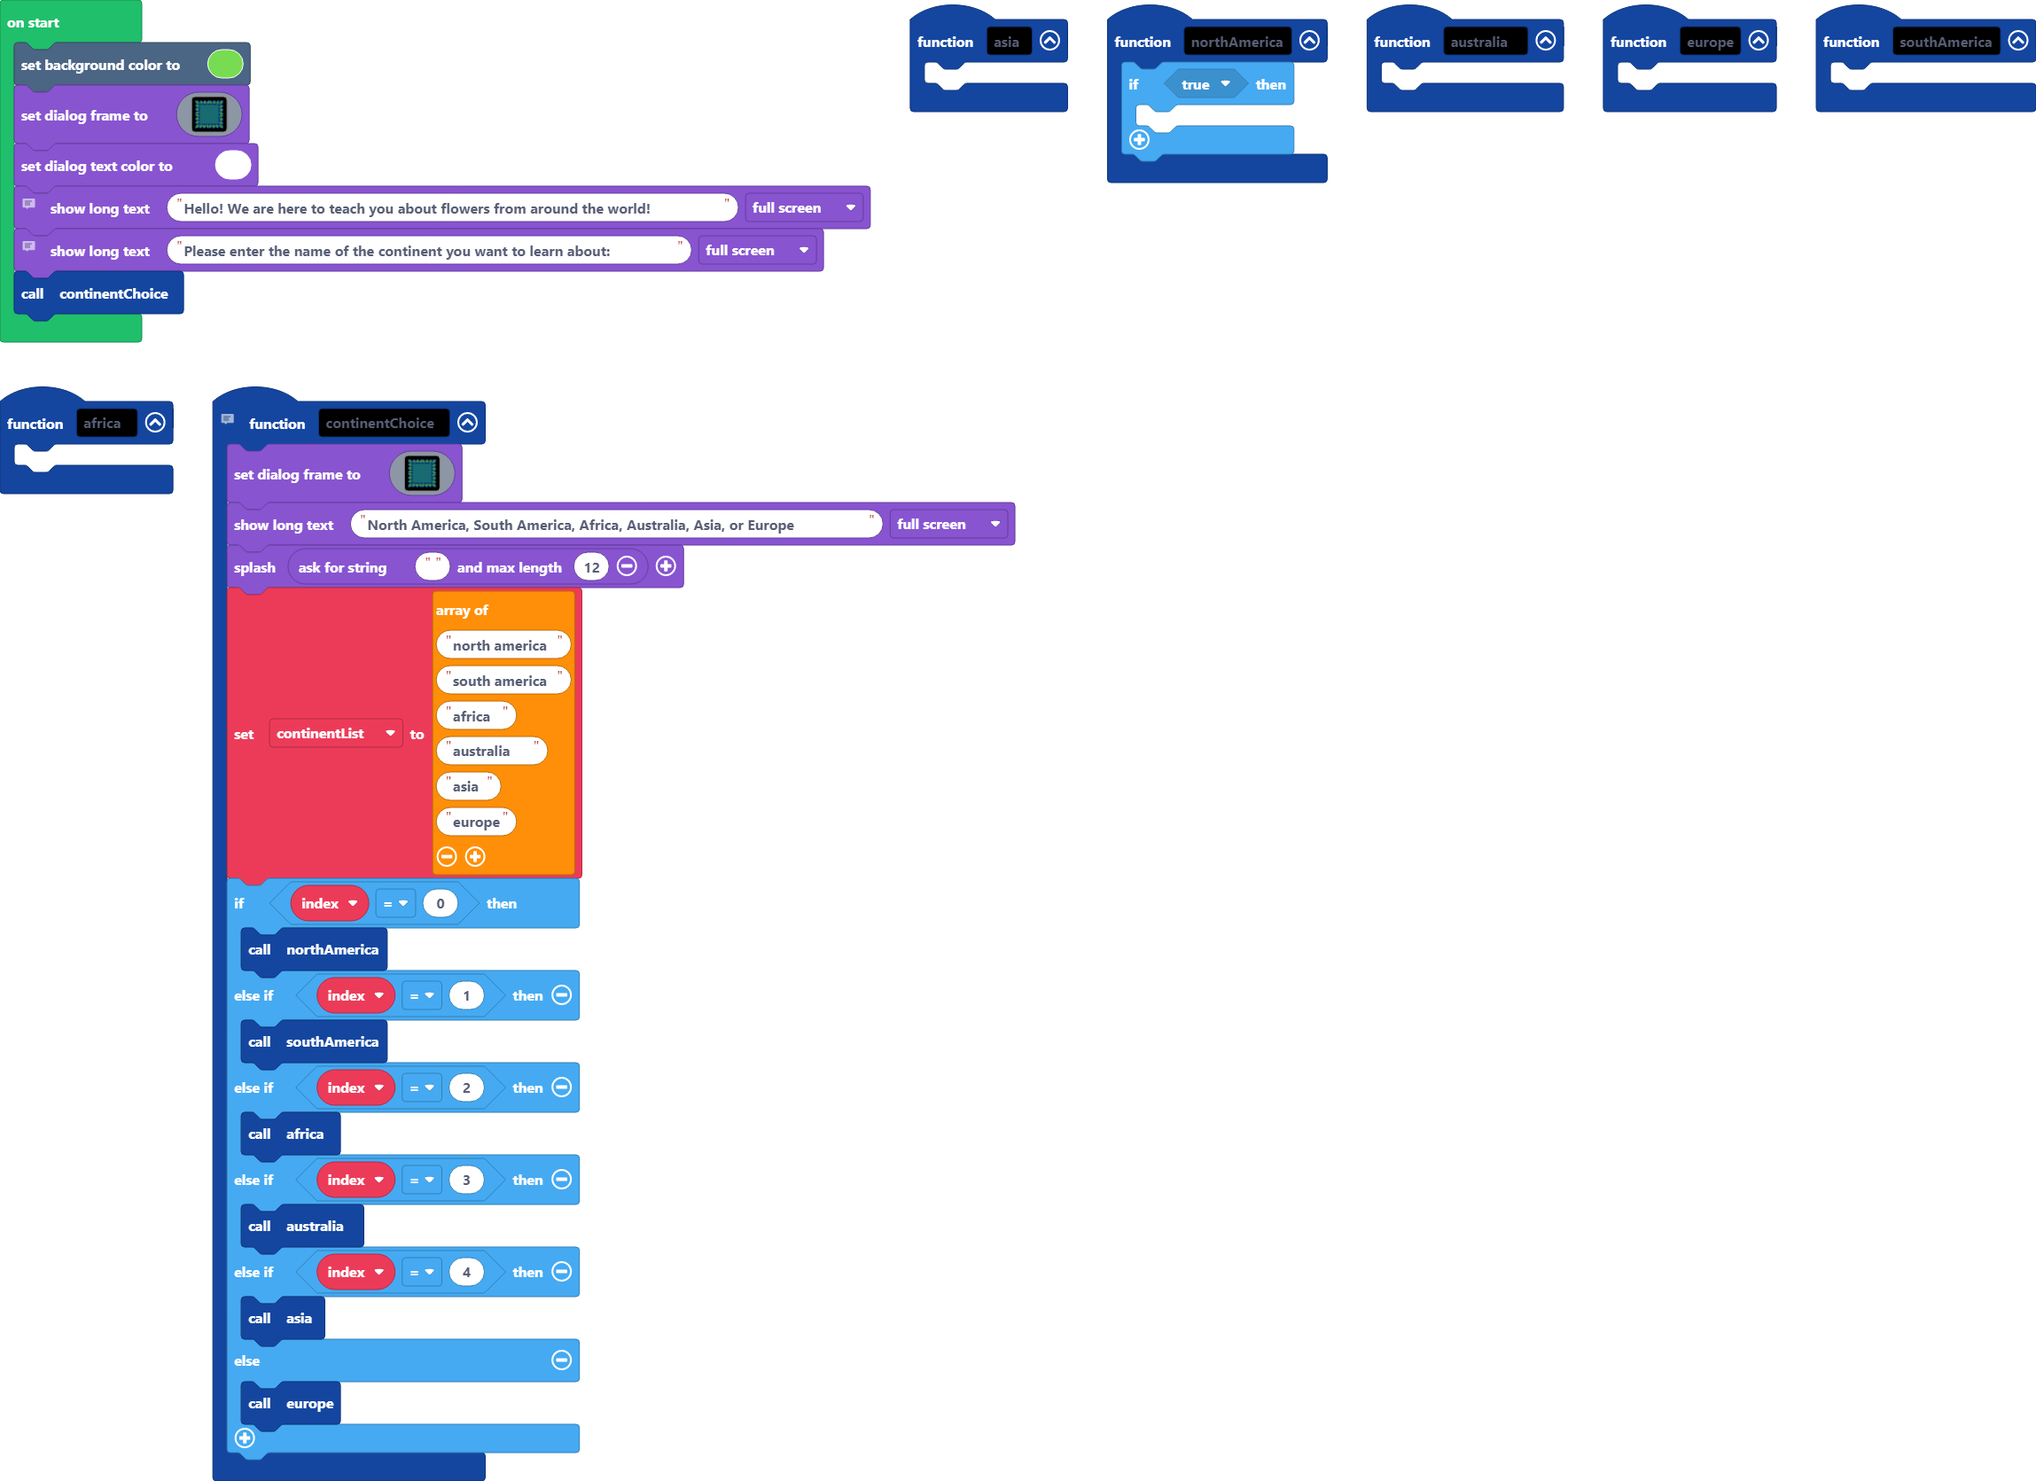
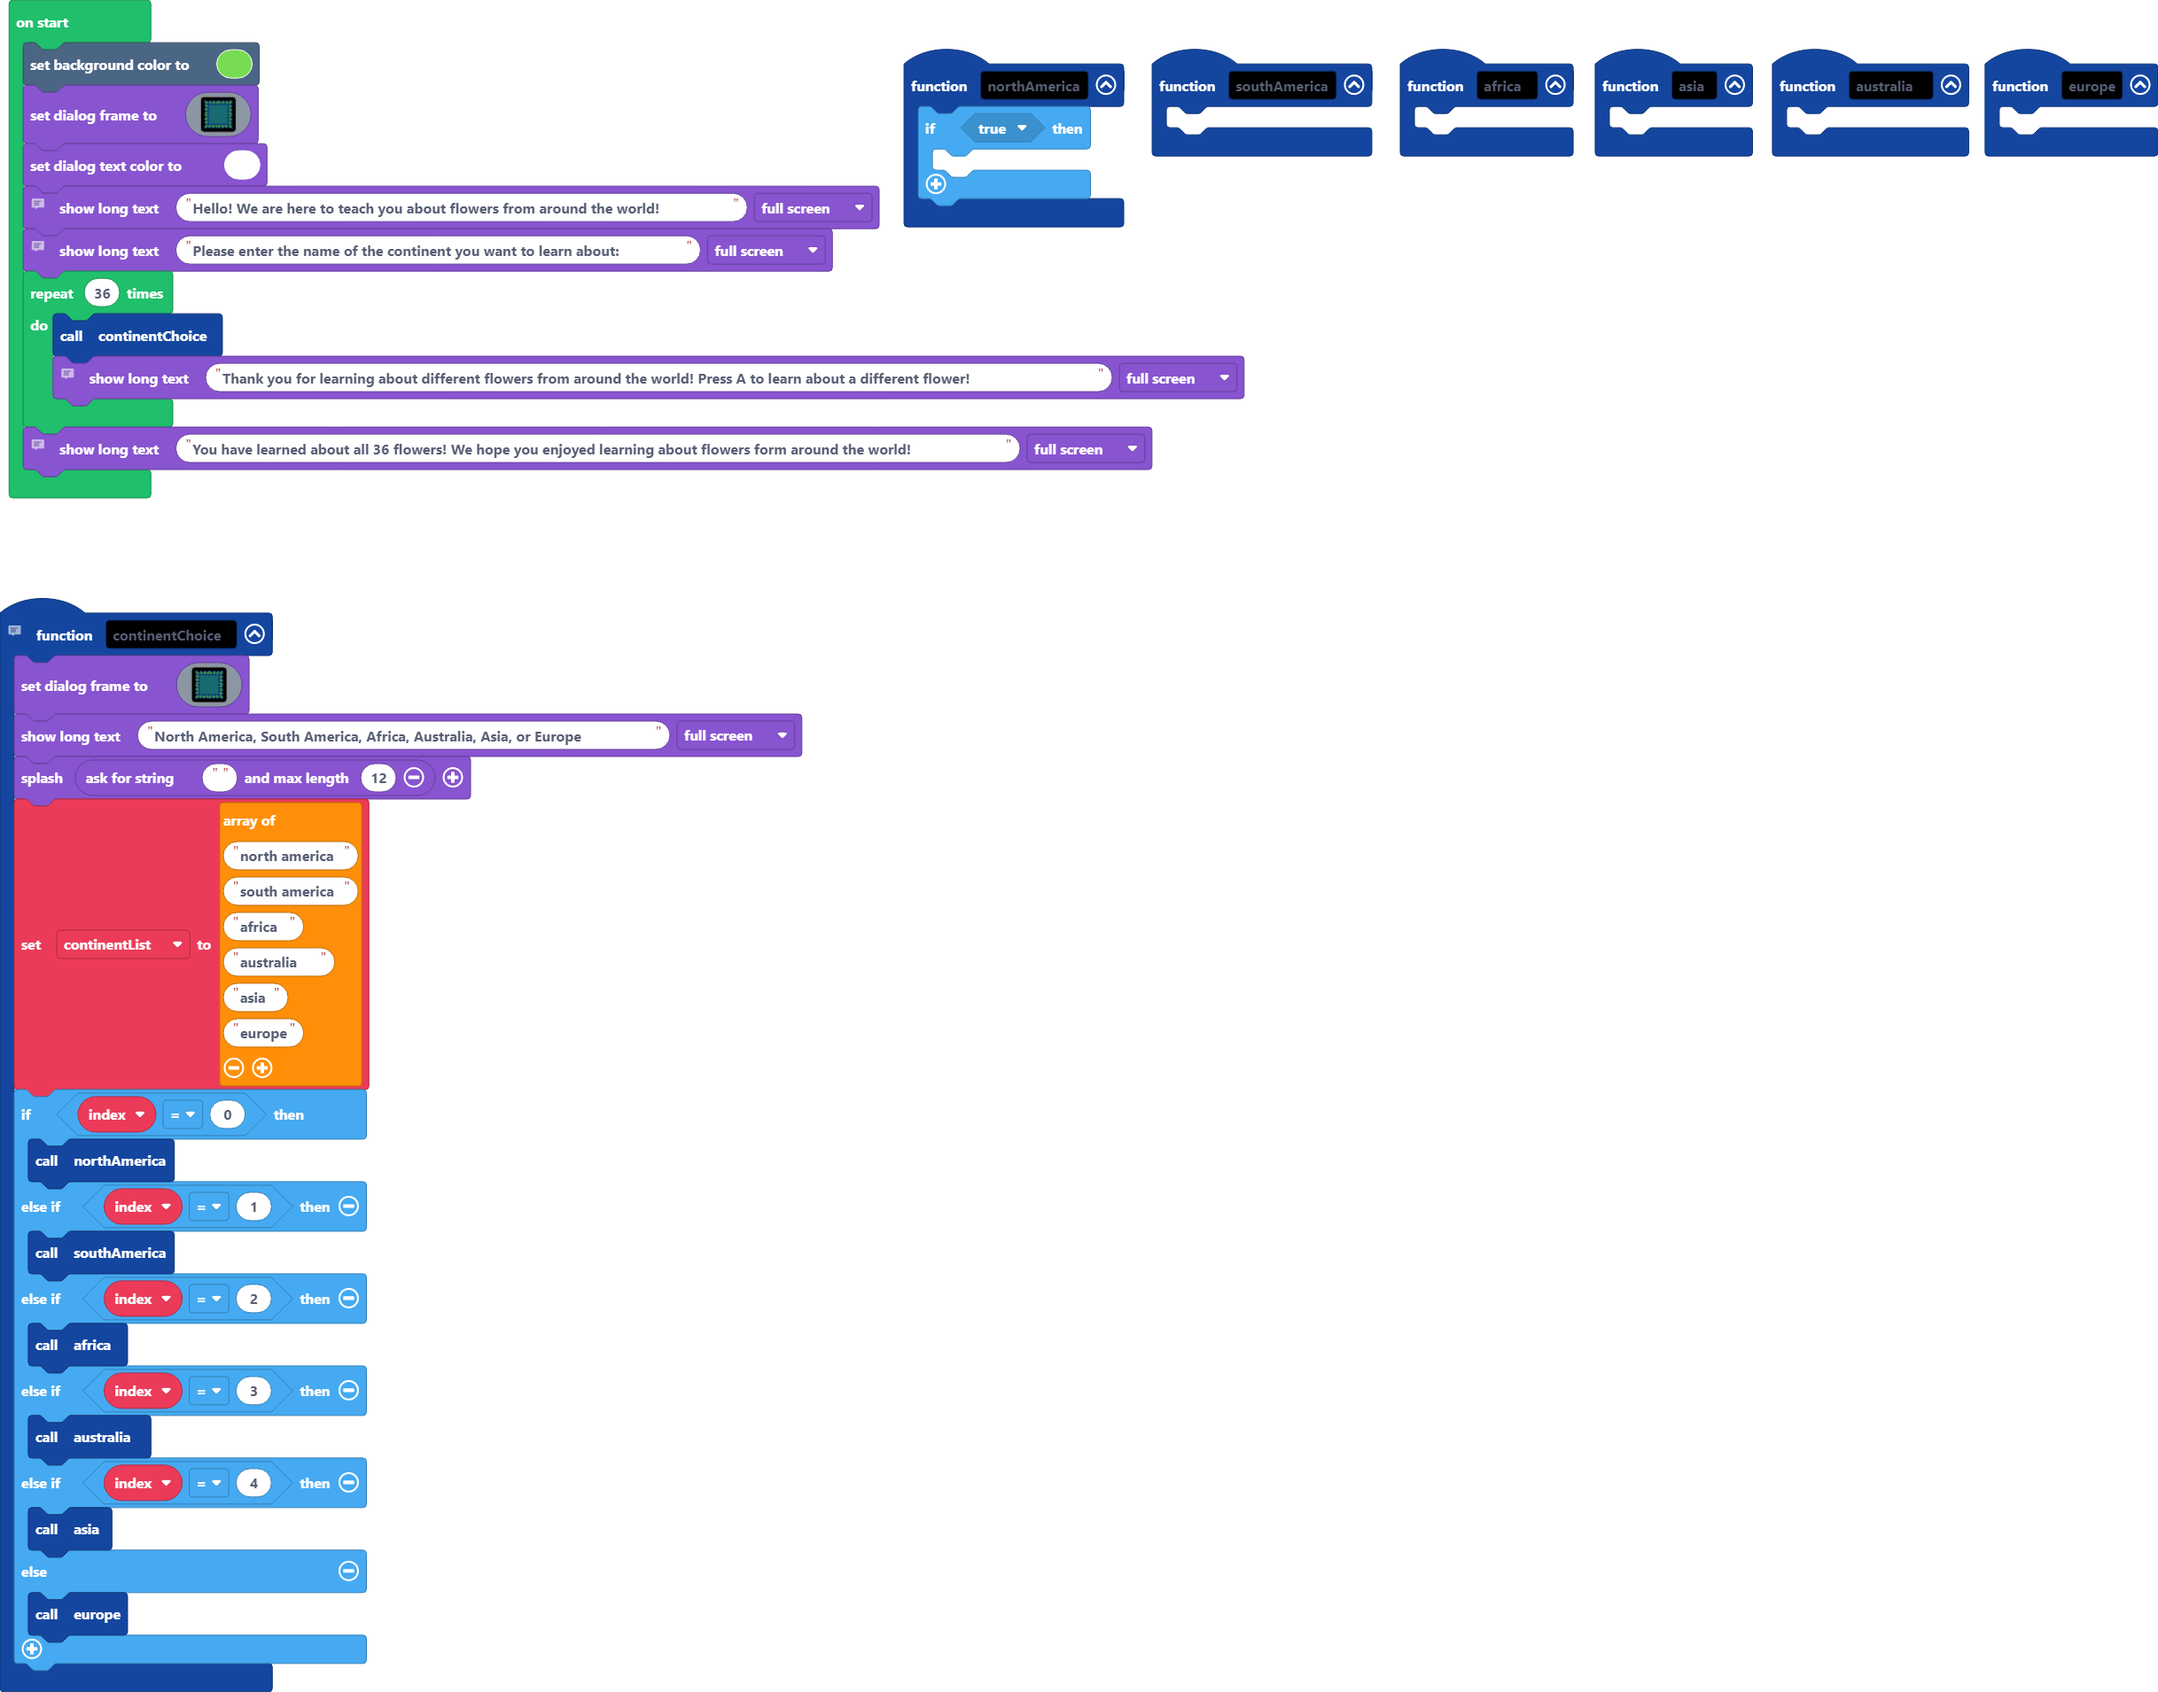
Update main.blocks, main.ts

Changed region(s): [[0.0, 0.0, 1.0, 1.0]]

diff --git a/main.ts b/main.ts
@@ -152,4 +152,10 @@ game.setDialogTextColor(1)
 game.showLongText("Hello! We are here to teach you about flowers from around the world! ", DialogLayout.Full)
 // This long text is part two of the first text explaining what the game will be
 game.showLongText("Please enter the name of the continent you want to learn about:", DialogLayout.Full)
-continentChoice()
+for (let index = 0; index < 36; index++) {
+    continentChoice()
+    // This text intros the user and tells them what the game will include
+    game.showLongText("Thank you for learning about different flowers from around the world! Press A to learn about a different flower!", DialogLayout.Full)
+}
+// This text intros the user and tells them what the game will include
+game.showLongText("You have learned about all 36 flowers! We hope you enjoyed learning about flowers form around the world!", DialogLayout.Full)
